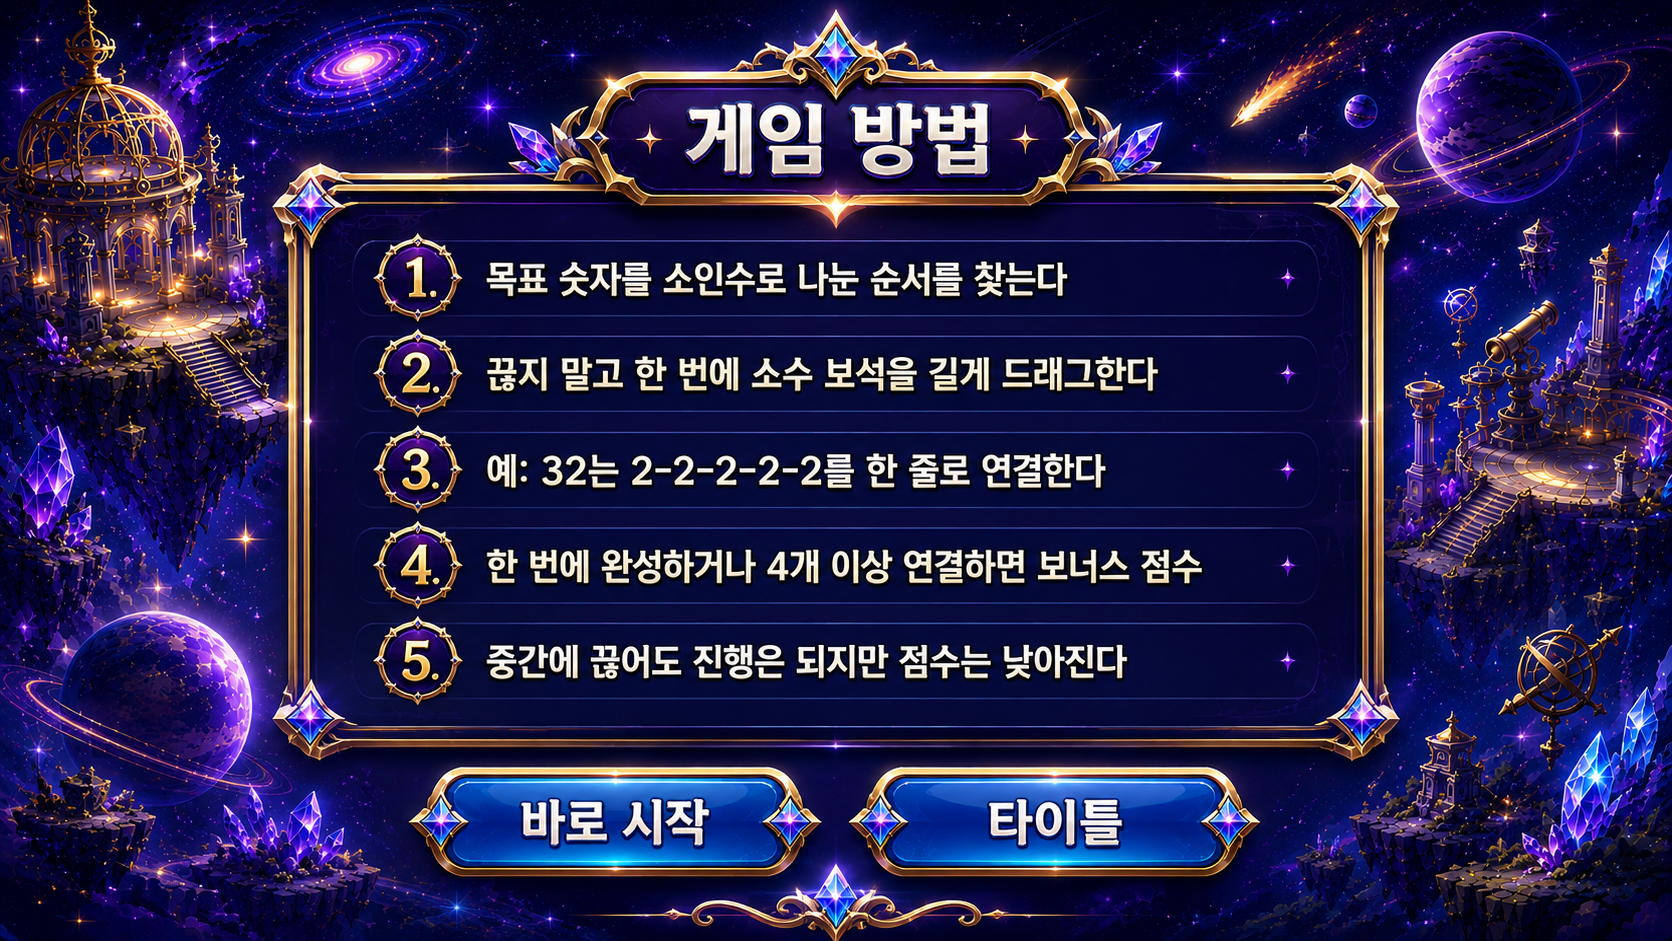
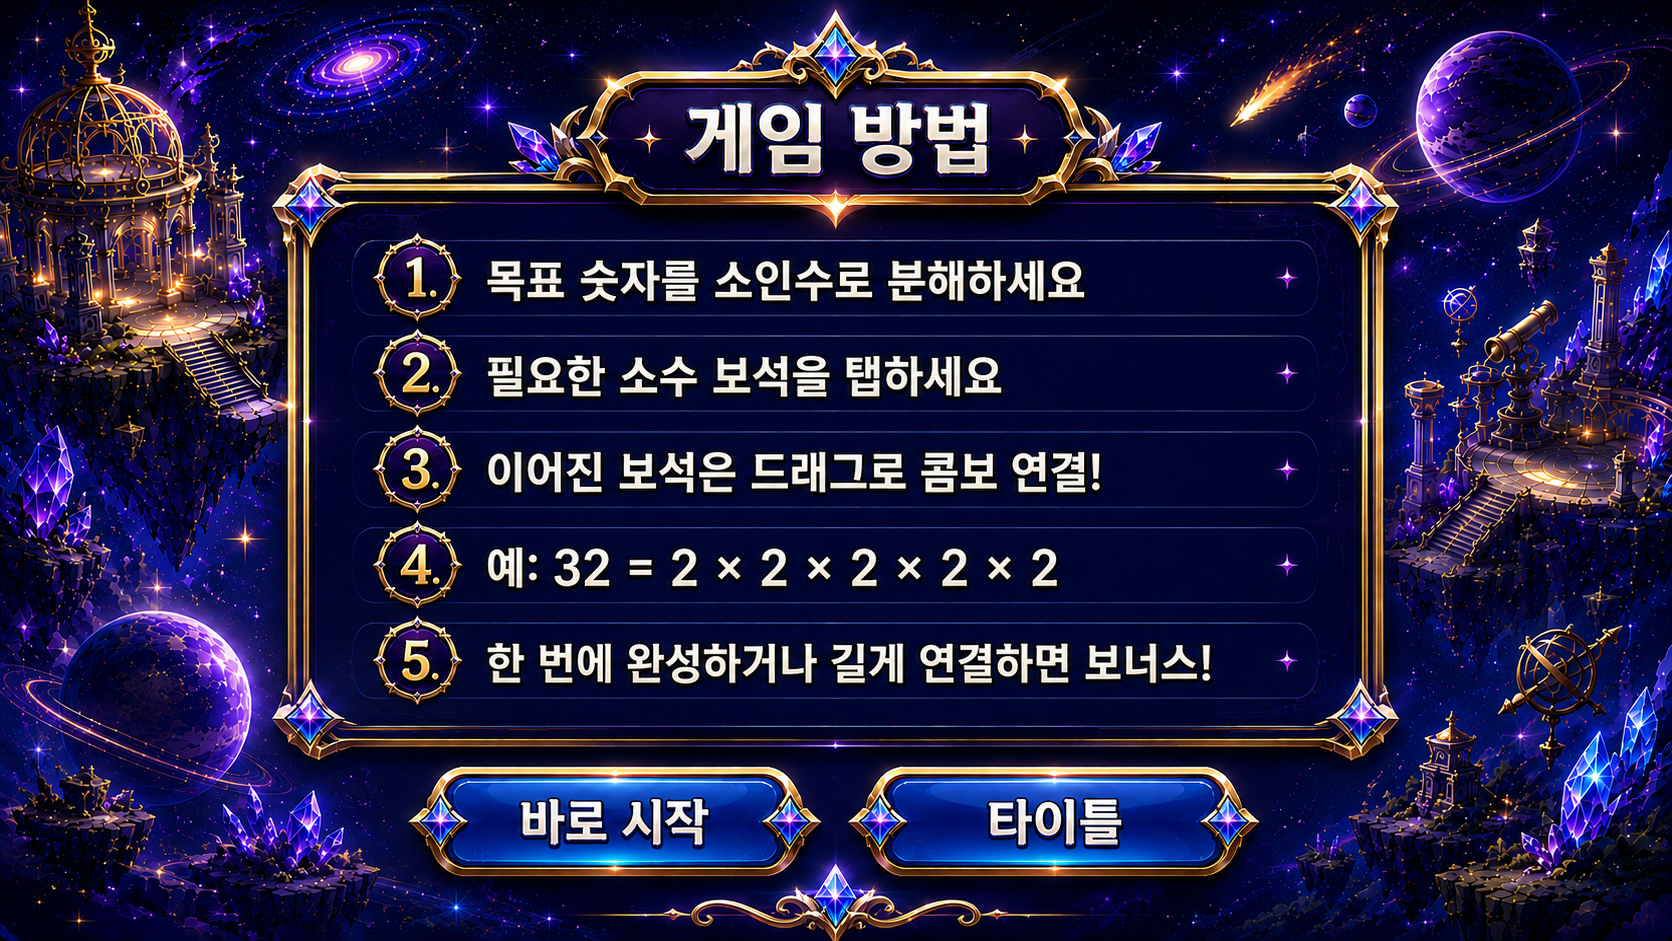
Replace tutorial guide asset

diff --git a/src/game/scenes/TutorialScene.ts b/src/game/scenes/TutorialScene.ts
@@ -24,41 +24,8 @@ export class TutorialScene extends BaseScene {
     const top = gameConfig.height / 2 - displayHeight / 2;
 
     image.setDisplaySize(displayWidth, displayHeight);
-    this.addInstructionTextOverlay(left, top, scale);
     this.addHotspot({ x: 624, y: 828, width: 368, height: 112 }, left, top, scale, () => this.scene.start("LevelSelectScene"));
     this.addHotspot({ x: 1058, y: 828, width: 368, height: 112 }, left, top, scale, () => this.scene.start("MenuScene"));
-  }
-
-  private addInstructionTextOverlay(imageLeft: number, imageTop: number, imageScale: number): void {
-    const instructions = [
-      "목표 숫자를 소인수로 나눌 순서를 찾는다",
-      "기본은 소수 보석을 탭해서 하나씩 선택한다",
-      "끊지 않고 이어 드래그하면 콤보로 연결된다",
-      "예: 32는 2를 다섯 번 선택한다",
-      "한 번에 완성하거나 길게 연결하면 보너스 점수",
-    ];
-    const rowY = [324, 454, 584, 714, 844];
-
-    instructions.forEach((line, index) => {
-      const y = imageTop + rowY[index]! * imageScale;
-      const panel = this.add.graphics().setDepth(5);
-      panel.fillStyle(0x050b2b, 0.88);
-      panel.fillRoundedRect(imageLeft + 300 * imageScale, y - 48 * imageScale, 1190 * imageScale, 96 * imageScale, 20 * imageScale);
-      panel.lineStyle(1.5 * imageScale, 0x7ff3ff, 0.18);
-      panel.strokeRoundedRect(imageLeft + 300 * imageScale, y - 48 * imageScale, 1190 * imageScale, 96 * imageScale, 20 * imageScale);
-
-      this.add
-        .text(imageLeft + 328 * imageScale, y, line, {
-          fontFamily: "Arial, sans-serif",
-          fontSize: `${Math.round(48 * imageScale)}px`,
-          color: "#fff8d8",
-          fontStyle: "bold",
-          stroke: "#080b20",
-          strokeThickness: Math.max(4, Math.round(7 * imageScale)),
-        })
-        .setOrigin(0, 0.5)
-        .setDepth(6);
-    });
   }
 
   private addHotspot(
